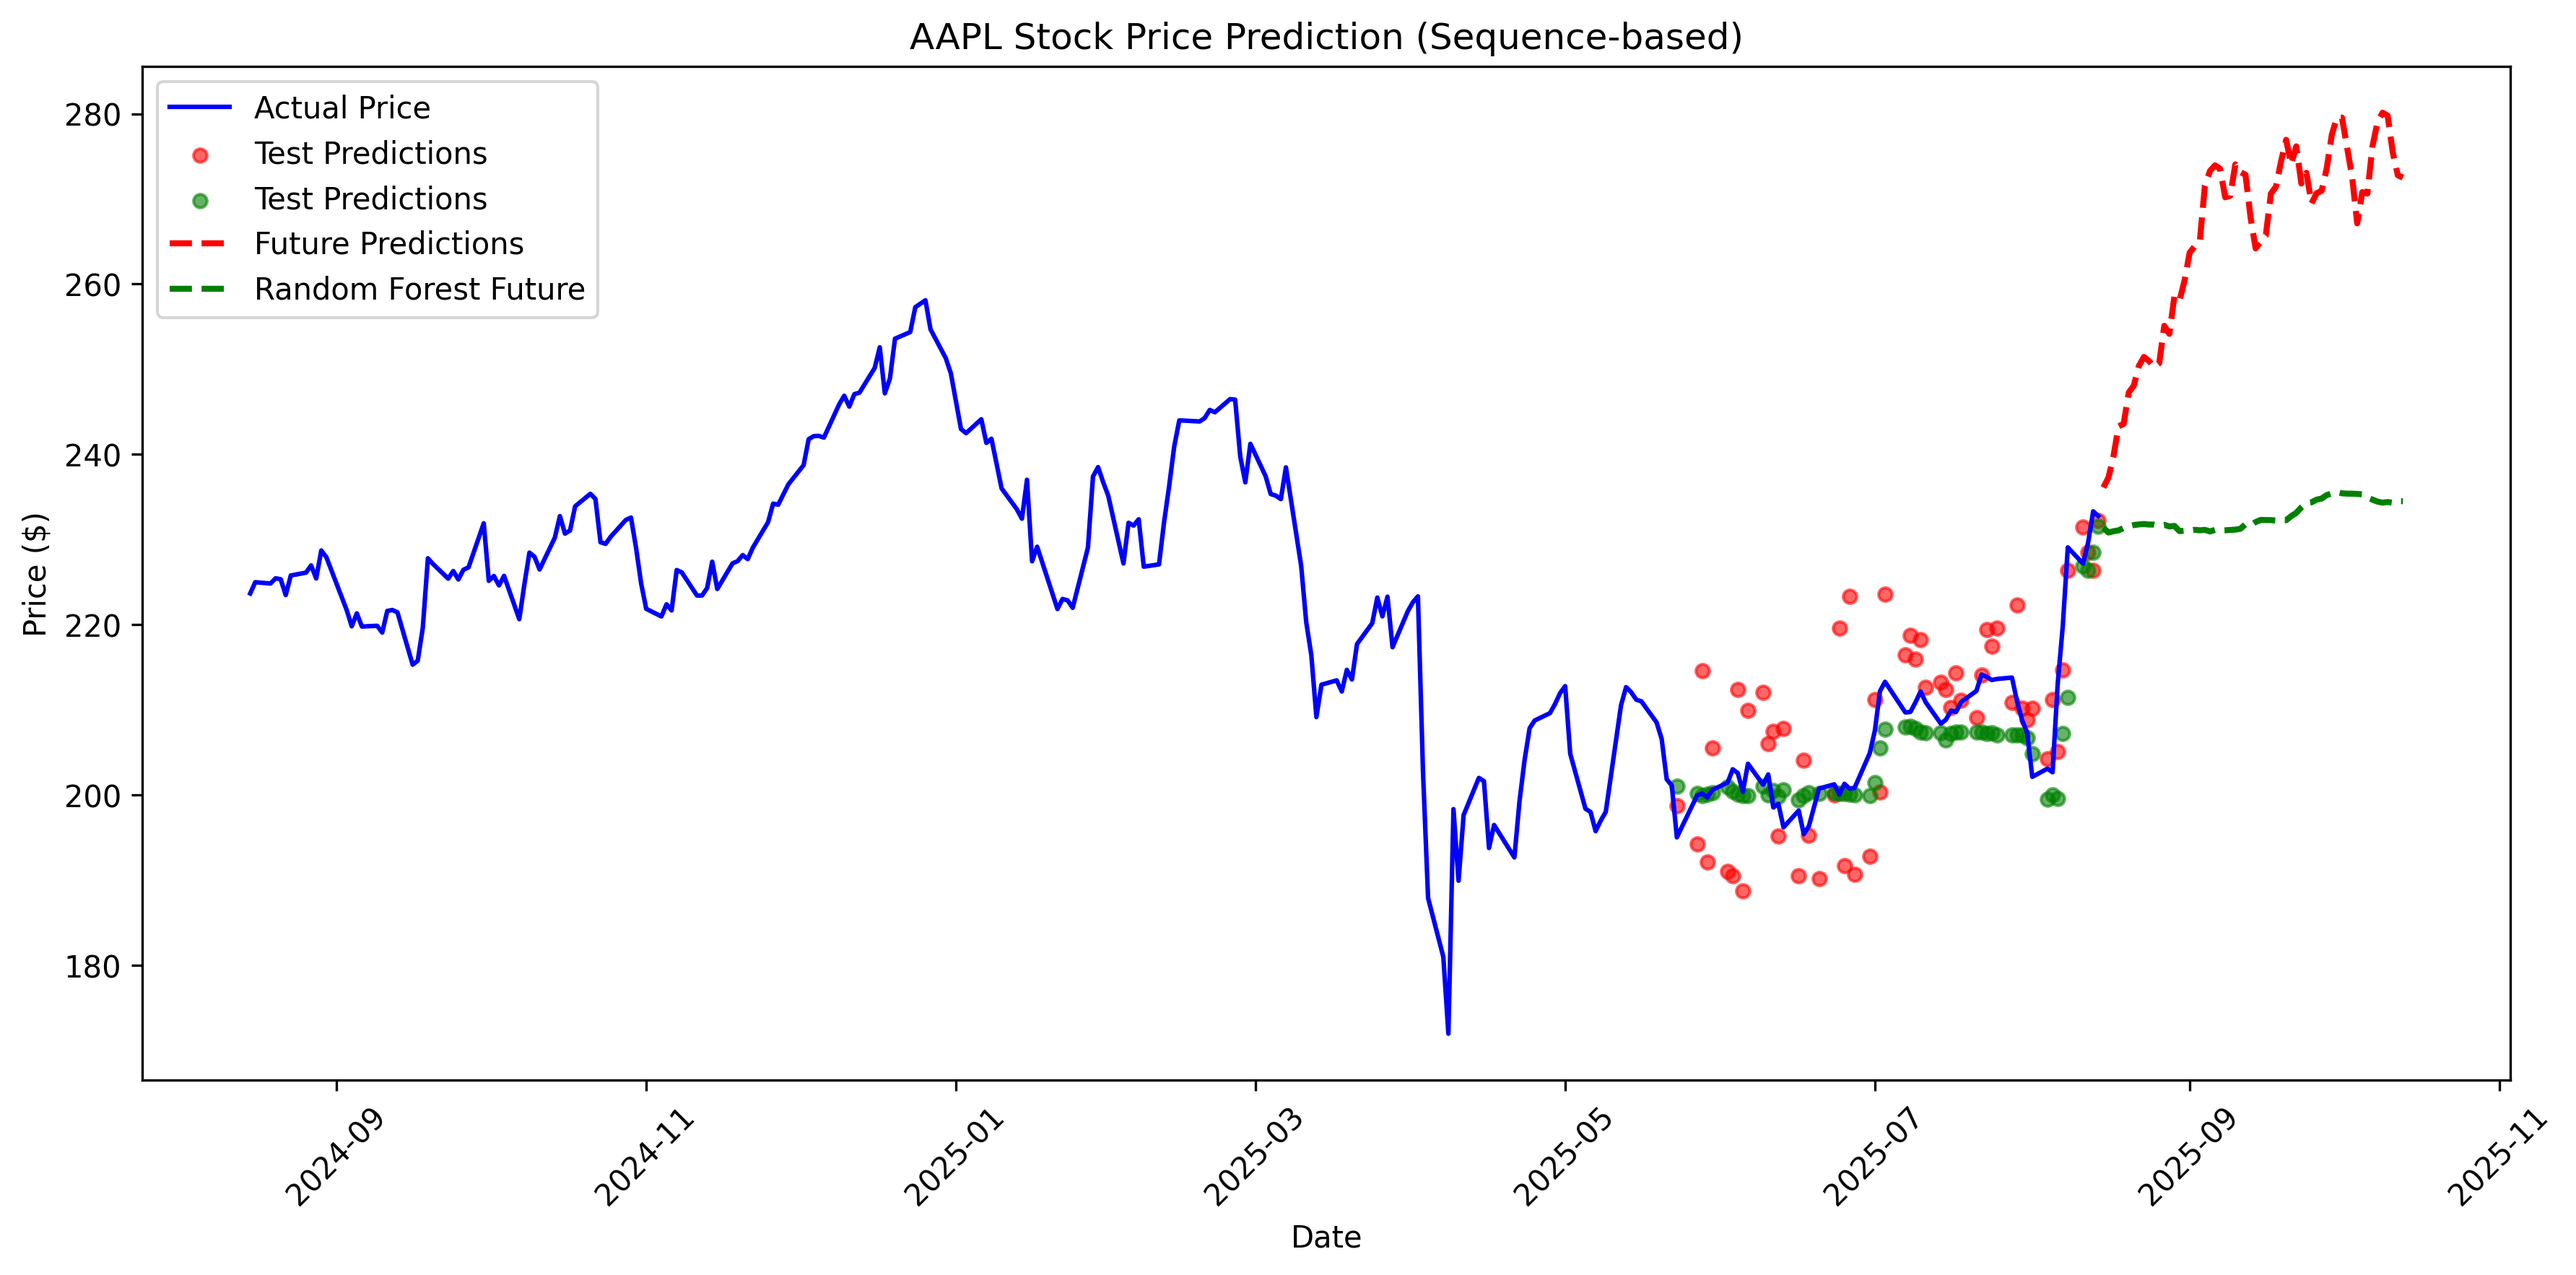
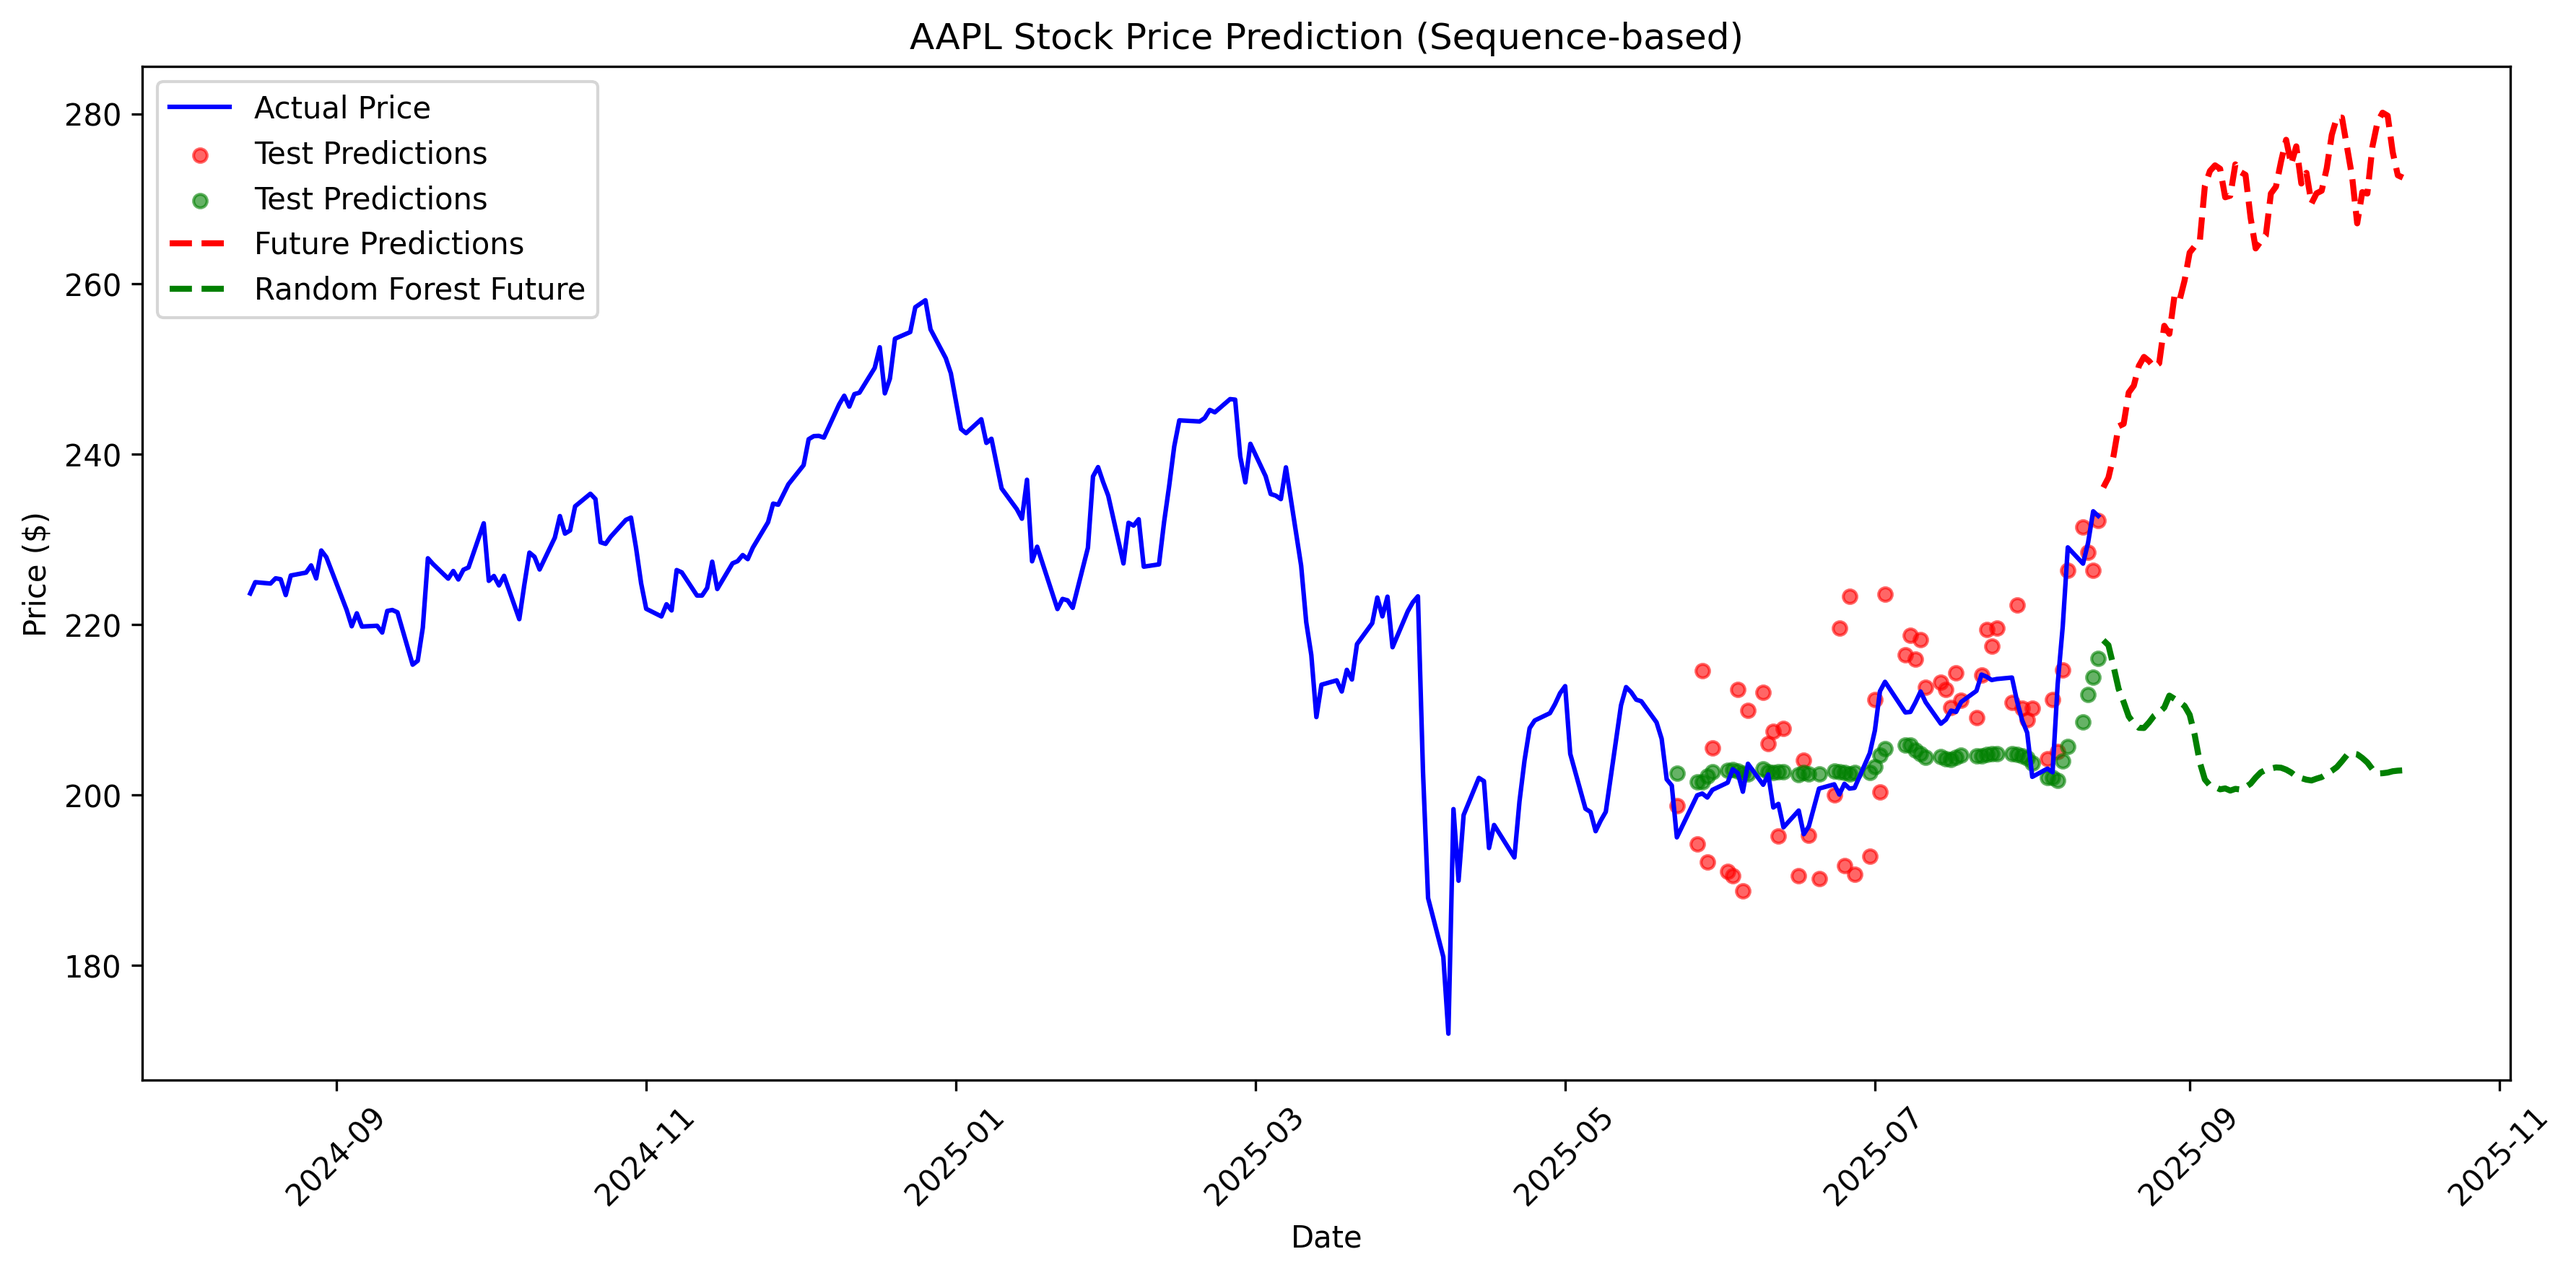
refined RF and added scaling

diff --git a/main.py b/main.py
@@ -3,7 +3,10 @@ import numpy as np
 import matplotlib.pyplot as plt
 from sklearn.linear_model import LinearRegression
 from sklearn.ensemble import RandomForestRegressor
+from sklearn.preprocessing import StandardScaler
+
 import pandas as pd
+
 
 
 ticker = "AAPL"
@@ -43,11 +46,18 @@ xTrainFlat = xTrain.reshape(xTrain.shape[0], -1)
 xTestFlat = xTest.reshape(xTest.shape[0], -1)
 
 
+scaler = StandardScaler()
+xTrain = scaler.fit_transform(xTrainFlat)
+xTest = scaler.transform(xTestFlat)
+
+
 
 linearModel = LinearRegression()
 linearModel.fit(xTrainFlat, yTrain)
 
-rfModel = RandomForestRegressor(n_estimators=500, random_state=42)
+rfModel = RandomForestRegressor(n_estimators=500, random_state=42,
+                                max_features='sqrt', n_jobs=-1,
+                                 min_samples_leaf=2, min_samples_split=5)
 rfModel.fit(xTrainFlat, yTrain)
 
 
